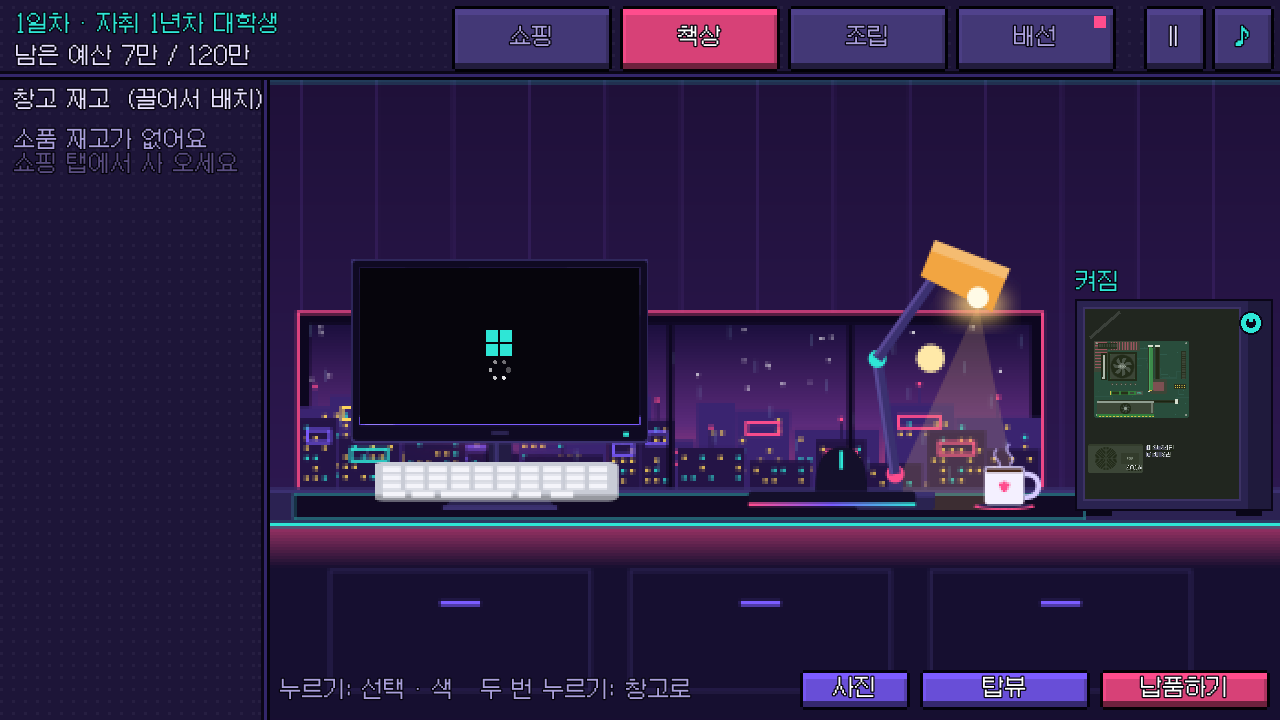
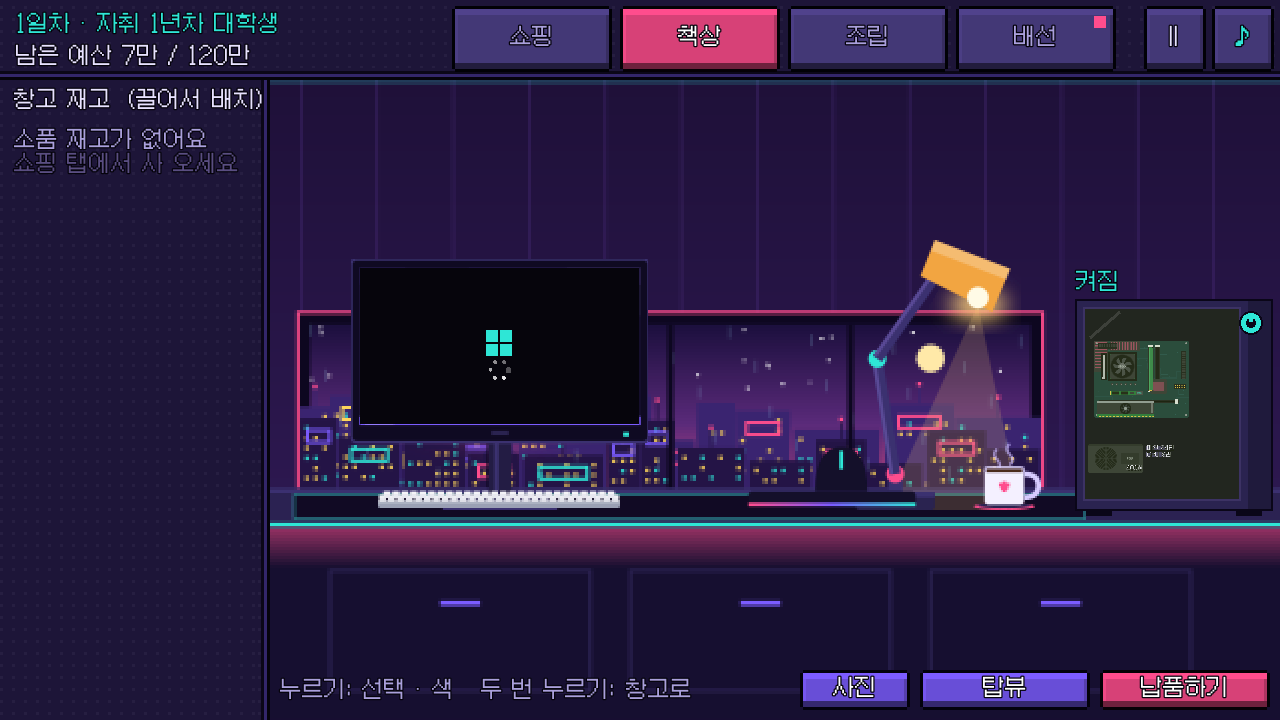
모니터 암 2종(집게 · 관절, 끌면 팔이 따라 접혔다 펴짐, 인치 한계, 받침대 없는 모니터, 시너지) / 키보드 정면 뷰를 실제처럼 얇은 옆모습으로 / 모든 모니터에 웹캠 · 라이트바 끼우기
Claude-Session: https://claude.ai/code/session_015NHYVVgyeSAxKGZr8LT6gF

Changed region(s): [[0.2812, 0.6417, 0.5, 0.7028]]

diff --git a/tools/profile_sprites.js b/tools/profile_sprites.js
@@ -1,0 +1,41 @@
+// 키보드를 정면(앞)에서 본 실제 모습: 얇은 몸통 + 키캡 줄이 살짝 보임 (위에서 본 그림을 눌러 놓은 게 아니라)
+// → resource/real/<id>.png (Godot 정면 뷰 전용, 실제 크기 cm x 5.5). 실행: node tools/profile_sprites.js
+const sharp = require('sharp'), path = require('path');
+const ITEMS = require('../data/items.json');
+const OUT = path.join(__dirname, '..', 'resource', 'real');
+const UNIT = 5.5;
+const PINK = '#ff4d8d', CYAN = '#2ee6d6';
+// [몸통, 몸통 윗면, 키캡, 키캡 윗면, 밑빛(RGB면 true)]
+const KB = {
+  keyboard: ['#9aa0b4', '#c9ccd6', '#e8e8f0', '#ffffff', false],
+  gaming_kb: ['#0f0a22', '#1c1830', '#1c1830', '#3e3760', true],
+  kb_white: ['#e0dfea', '#f4f2fa', '#ffffff', '#ffffff', false],
+  kb_mini: ['#3b3466', '#5a4fa0', '#c9b8ff', '#e8e0ff', false],
+};
+const body = (W, H, [b, bt, k, kt, rgb]) => {
+  const base = H * .42, cap = H * .3;
+  const n = Math.round(W / 9);
+  const kw = W / n;
+  let s = `<defs><linearGradient id="rg" x1="0" y1="0" x2="1" y2="0"><stop offset="0" stop-color="${PINK}"/><stop offset=".5" stop-color="#7b5cff"/><stop offset="1" stop-color="${CYAN}"/></linearGradient></defs>`;
+  if (rgb) s += `<rect x="2" y="${H - 3}" width="${W - 4}" height="3" fill="url(#rg)" opacity=".8"/>`;
+  s += `<rect x="0" y="${H - base}" width="${W}" height="${base - 2}" rx="2" fill="${b}"/><rect x="0" y="${H - base}" width="${W}" height="2" fill="${bt}"/>`;
+  for (let r = 0; r < 2; r++)   // 뒷줄이 살짝 높게 보임 (키보드는 뒤가 높게 기울어짐)
+    for (let i = 0; i < n; i++) {
+      const x = i * kw + 1 + (r ? kw / 2 : 0), y = H - base - cap * (r ? 1.55 : 1) + 1;
+      if (x + kw - 2 > W) continue;
+      s += `<rect x="${x}" y="${y}" width="${kw - 2}" height="${cap}" rx="1" fill="${k}"/><rect x="${x}" y="${y}" width="${kw - 2}" height="1.5" fill="${kt}"/>`;
+    }
+  if (rgb) s += [...Array(n)].map((_, i) => `<rect x="${i * kw + 2}" y="${H - base - 1}" width="${kw - 4}" height="1" fill="url(#rg)"/>`).join('');
+  return s;
+};
+(async () => {
+  for (const [id, pal] of Object.entries(KB)) {
+    const it = ITEMS.find(i => i.id === id);
+    const W = Math.round(it.foot[0] * UNIT), H = Math.round((it.fh || 4) * UNIT);
+    const svg = `<svg xmlns="http://www.w3.org/2000/svg" width="${W}" height="${H}" viewBox="0 0 ${W} ${H}">${body(W, H, pal)}</svg>`;
+    const small = await sharp(Buffer.from(svg)).resize(Math.ceil(W / 2), Math.ceil(H / 2), { kernel: 'nearest' }).png().toBuffer();
+    await sharp(small).resize(W, H, { kernel: 'nearest' }).png().toFile(path.join(OUT, id + '.png'));
+    if (it.tint) for (let c = 1; c <= 3; c++) await sharp(small).modulate({ hue: 90 * c }).resize(W, H, { kernel: 'nearest' }).png().toFile(path.join(OUT, `${id}__c${c}.png`));
+  }
+  console.log(Object.keys(KB).length, 'keyboard profiles');
+})();

diff --git a/tools/props_sprites.js b/tools/props_sprites.js
@@ -135,4 +135,11 @@ Object.assign(top, {
   laptop_gaming: (W, H) => `${sh(2, 2, W - 4, H - 4, 5)}<rect x="2" y="2" width="${W - 4}" height="${H * .14}" rx="3" fill="#14102a"/><rect x="2" y="${2 + H * .14 - 3}" width="${W - 4}" height="3" fill="${PINK}"/>
     <rect x="2" y="${H * .18}" width="${W - 4}" height="${H * .8}" rx="4" fill="#1c1830"/>${[0, 1, 2, 3].map(r => `<rect x="${W * .1}" y="${H * (.26 + r * .11)}" width="${W * .8}" height="${H * .07}" fill="${[PINK, VIO, CYAN, VIO][r]}" opacity=".7"/>`).join('')}<rect x="${W * .35}" y="${H * .74}" width="${W * .3}" height="${H * .16}" rx="3" fill="#2a2350"/>`,
 });
+// 모니터 암 (쇼핑 아이콘 · pico2d용. Godot 정면 뷰에서는 코드로 관절을 그려 모니터를 따라 움직임)
+const arm = (c, hi) => [98, 180, `<rect x="30" y="160" width="36" height="16" rx="2" fill="${c}"/><rect x="40" y="172" width="16" height="8" fill="${c}"/>
+  <rect x="44" y="60" width="9" height="102" fill="${c}"/><rect x="44" y="60" width="3" height="102" fill="${hi}"/>
+  <path d="M48 62 L80 40 L58 14" stroke="${c}" stroke-width="9" fill="none" stroke-linejoin="round"/><circle cx="48" cy="62" r="6" fill="${hi}"/><circle cx="80" cy="40" r="6" fill="${hi}"/>
+  <rect x="50" y="4" width="20" height="20" rx="2" fill="${hi}"/>`];
+front.monitor_arm = arm('#2a2440', '#5a4fa0');
+front.monitor_arm_gas = arm('#9aa0b4', '#e8e6f2');
 module.exports = { front, top, MON };

diff --git a/tools/make_sprites.js b/tools/make_sprites.js
@@ -223,7 +223,7 @@ Object.assign(S, require('./props_sprites').front);   // 소품 확장
 
 // 색을 바꿀 수 있는 소품: 색상(hue)을 돌린 그림을 함께 만든다 (이름__c1 ~ __c3)
 const real = require('./real_scale');
-const MOUNTED = ['monitor_bar', 'webcam', 'headset'];   // 붙는 모양은 mount_sprites.js가 실제 비율로 그림
+const MOUNTED = ['monitor_bar', 'webcam', 'headset', 'keyboard', 'gaming_kb', 'kb_white', 'kb_mini', 'monitor_arm', 'monitor_arm_gas'];   // 키보드 정면 = profile_sprites.js, 모니터 암 = 코드로 그림   // 붙는 모양은 mount_sprites.js가 실제 비율로 그림
 const TINT = ['mood_lamp', 'neon_sign', 'neon_heart', 'wall_light', 'kb_mini', 'mug', 'headphones', 'speaker_bt', 'gamepad', 'desk_clock', 'poster_game', 'mouse_gaming', 'tumbler', 'rgb_cube', 'neon_gg'];
 
 (async () => {
